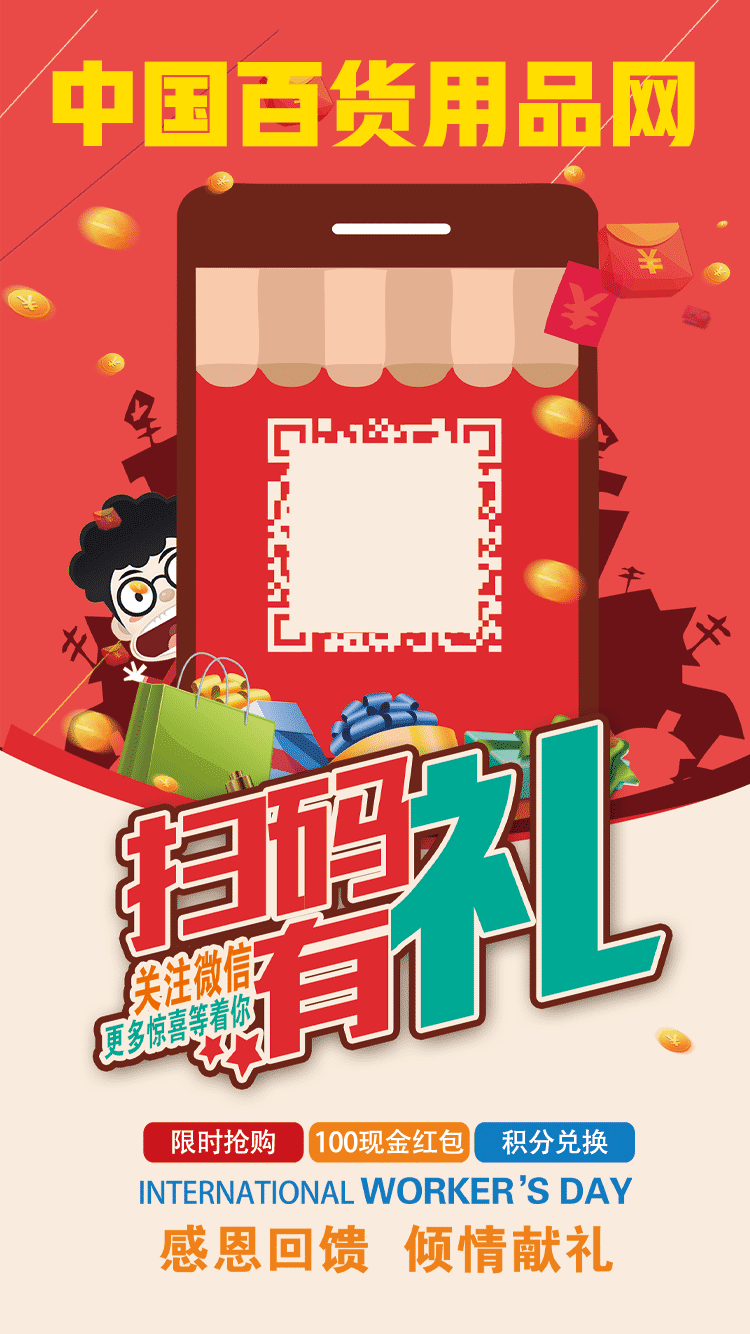
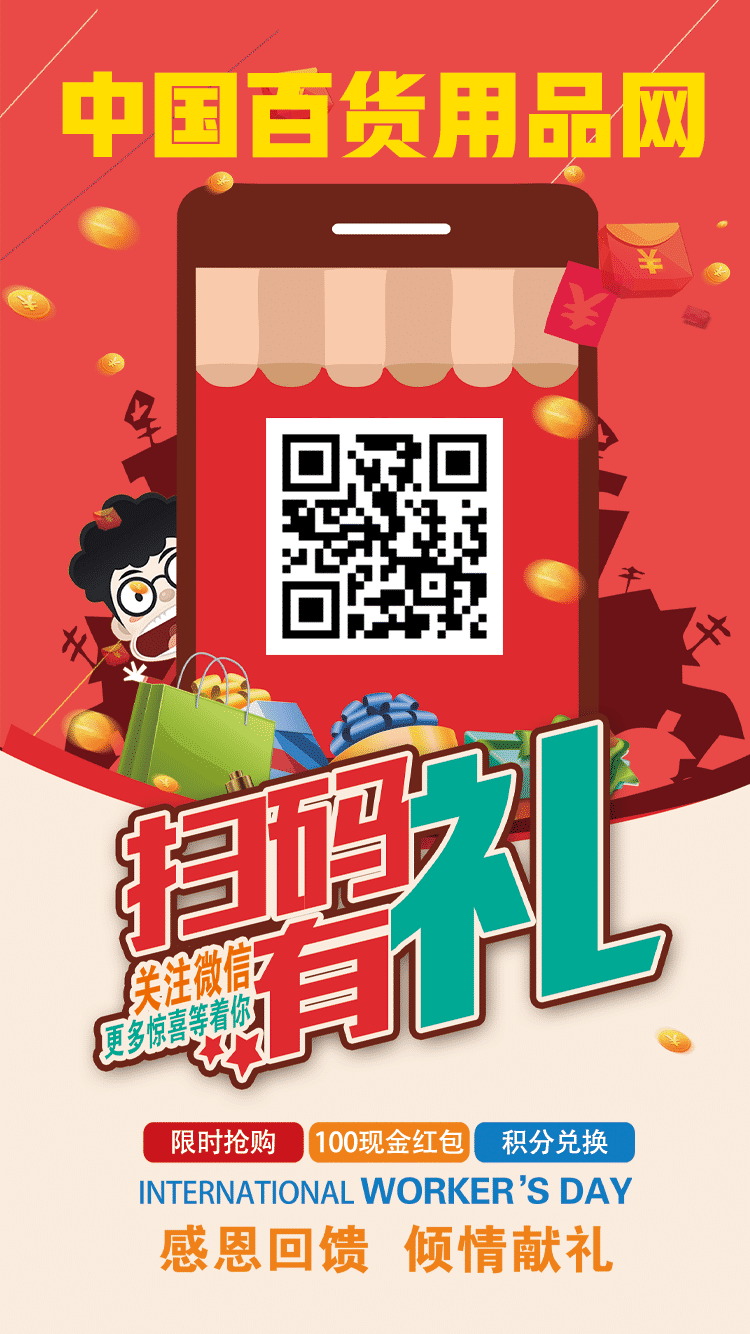
产品信息页面增加 编辑器

diff --git a/Application/Seller/View/Goods/_goods.html b/Application/Seller/View/Goods/_goods.html
@@ -17,7 +17,7 @@
 <!--以下是在线编辑器 代码 -->
 <script type="text/javascript">
     /*
-	 * 在线编辑器相 关配置 js 
+	 * 在线编辑器相 关配置 js
 	 *  参考 地址 http://fex.baidu.com/ueditor/
 	 */
     window.UEDITOR_Admin_URL = "__ROOT__/Public/plugins/Ueditor/";
@@ -33,8 +33,8 @@
 <script type="text/javascript" charset="utf-8" src="__ROOT__/Public/plugins/Ueditor/ueditor.config.js"></script>
 <script type="text/javascript" charset="utf-8" src="__ROOT__/Public/plugins/Ueditor/ueditor.all.min.js"> </script>
  <script type="text/javascript" charset="utf-8" src="__ROOT__/Public/plugins/Ueditor/lang/zh-cn/zh-cn.js"></script>
-<script type="text/javascript">  
-  
+<script type="text/javascript">
+
     var editor;
     $(function () {
         //具体参数配置在  editor_config.js  中
@@ -92,7 +92,7 @@
         editor = new UE.ui.Editor(options);
         editor.render("goods_content");  //  指定 textarea 的  id 为 goods_content
 
-    }); 
+    });
 </script>
 <!--以上是在线编辑器 代码  end-->
 <div class="wrapper">
@@ -341,8 +341,10 @@
                                 <tr>
                                     <td>商品详情描述（逗号隔开 举例  长:3米，宽5米）:</td>
                                     <td width="85%">
-										<input class="span12 ckeditor" style="width:550px;" id="goods_content" name="goods_content" title="" value="{$goodsInfo.goods_content}"></input>
-                                        <span id="err_goods_content" style="color:#F00; display:none;"></span>                                         
+                                        <textarea class="span12 ckeditor" id="goods_content" name="goods_content" title="">
+							            {$goodsInfo.goods_content}
+							             </textarea>
+                                        <span id="err_goods_content" style="color:#F00; display:none;"></span>
                                     </td>                                                                       
                                 </tr>   
                                 </tbody>                                

diff --git a/Template/mobile/new/Product/my_poster.html b/Template/mobile/new/Product/my_poster.html
@@ -34,6 +34,8 @@
 	<ul>
 		<li><img src="/Public/poster/20190528112023.png" data-value="20190528112023.png" alt=""></li>
 		<li><img src="/Public/poster/20190528134854.png" data-value="20190528134854.png" alt=""></li>
+		<li><img src="/Public/poster/20190529101216.png" data-value="20190529101216.png" alt=""></li>
+		<li><img src="/Public/poster/20190529101229.png" data-value="20190529101229.png" alt=""></li>
 	</ul>
 </div>
 <div class="new_poster"  style="display: none">
@@ -55,9 +57,9 @@
 	})
 	// 点击小图大图变化
 	$(".small li").click(function(){
-		var src =$(this).children("img").attr("src");
-		$(".big").children("img").attr("src",src);
-		$(".src").val($(this).children("img").attr('data-value'));
+		var src =$(this).find("img").attr("src");
+		$(".big").find("img").attr("src",src);
+		$(".src").val($(this).find("img").attr('data-value'));
 		$(this).addClass('cur').siblings().removeClass('cur');
 	})
 	// 点击生成图片
@@ -72,9 +74,10 @@
 			dataType: "json",
 			success: function(data){
 				// var src =  1;
-				console.log(data);
+				$(".new_poster").find("img").attr("src",'/'+data.data);
+				$(".big").find("img").attr("src",'/'+data.data);
 				$(".new_poster").css('display','block');
-				$(".new_poster").children("img").attr("src",data.data);
+
 			}
 		});
 	})

diff --git a/Application/Mobile/Controller/ProductController.class.php b/Application/Mobile/Controller/ProductController.class.php
@@ -186,12 +186,22 @@ class ProductController extends MobileBaseController
             '20190528112023.png' => [
                 'x' => 267,
                 'y' => 418,
-                'width' => '235'
+                'width' => 235
             ],
             '20190528134854.png' =>[
                 'x' => 220,
                 'y' => 642,
-                'width' => '315'
+                'width' => 315
+            ],
+            '20190529101216.png' => [
+                'x' => 247,
+                'y' => 873,
+                'width' => 260
+            ],
+            '20190529101229.png' => [
+                'x' => 356,
+                'y' => 263,
+                'width' => 145
             ]
         ];
         $img = I('back_img') ? I('back_img') : '20190528134854.png';
@@ -199,7 +209,7 @@ class ProductController extends MobileBaseController
         $imageHelper = new ImageHelper();
         $return = [];
         try{
-            $image = $imageHelper->mergeImageFromQRcode($this->user['qr_code'],$backImage,$posterImage[$img]['width'],$posterImage[$img]['x'],$posterImage[$img]['y']);
+            $image = $imageHelper->mergeImageFromQRcode($this->getQRcode(),$backImage,$posterImage[$img]['width'],$posterImage[$img]['x'],$posterImage[$img]['y']);
             if ($this->user['poster_imag']){
                 $root = str_replace('\\','/',getcwd().'/');
                 unlink($root.$this->user['poster_imag']);
@@ -226,4 +236,25 @@ class ProductController extends MobileBaseController
         $path = $QRcodeHelp->getTodayDir().'/'.$image;
         return $path;
     }
+
+    /** 获取二维码地址
+     * @return string
+     */
+    protected function getQRcode(){
+        if ($this->user['qr_code']){
+            return $this->user['qr_code'];
+        }
+        $inviteCode = $this->user['invite_code'];
+        if (!$inviteCode){
+            $inviteCode = $this->user_id.rand(1000,9000);
+            $this->user['invite_code'] = $inviteCode;
+        }
+        $url = $_SERVER['REQUEST_SCHEME'].'://'.$_SERVER['SERVER_NAME'].'/Mobile/Index/index.html?invite_code='.$inviteCode;
+        $qrcode = new QRcodeHelp();
+        $qrcodeString = $qrcode->getPng($url);
+        $this->user['qr_code'] = $qrcodeString;
+        M('users')->where(['user_id' => $this->user_id])->save($this->user);
+        return $qrcodeString;
+    }
+
 }
